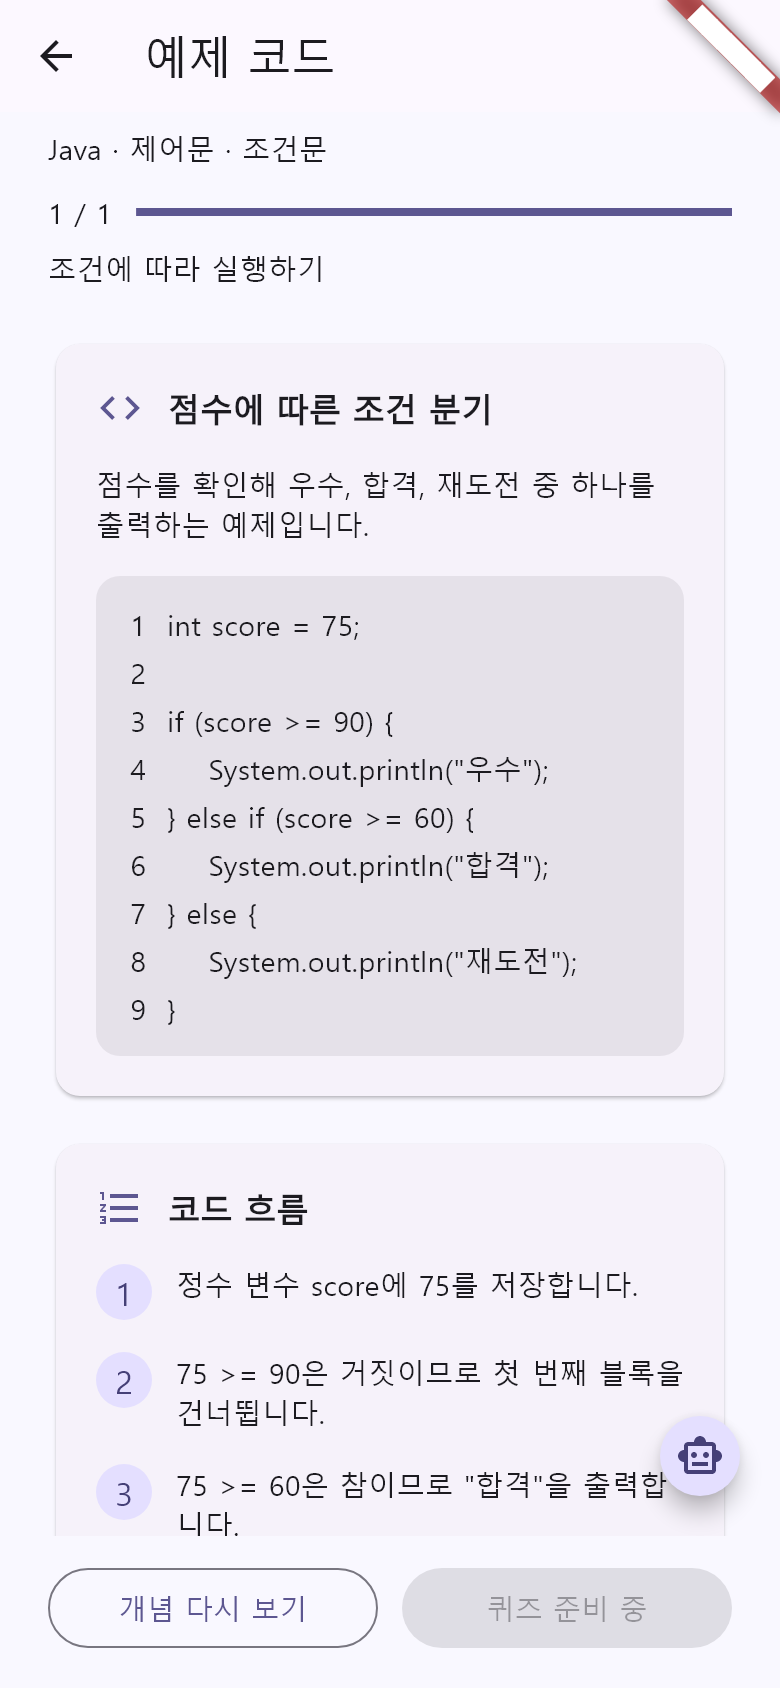
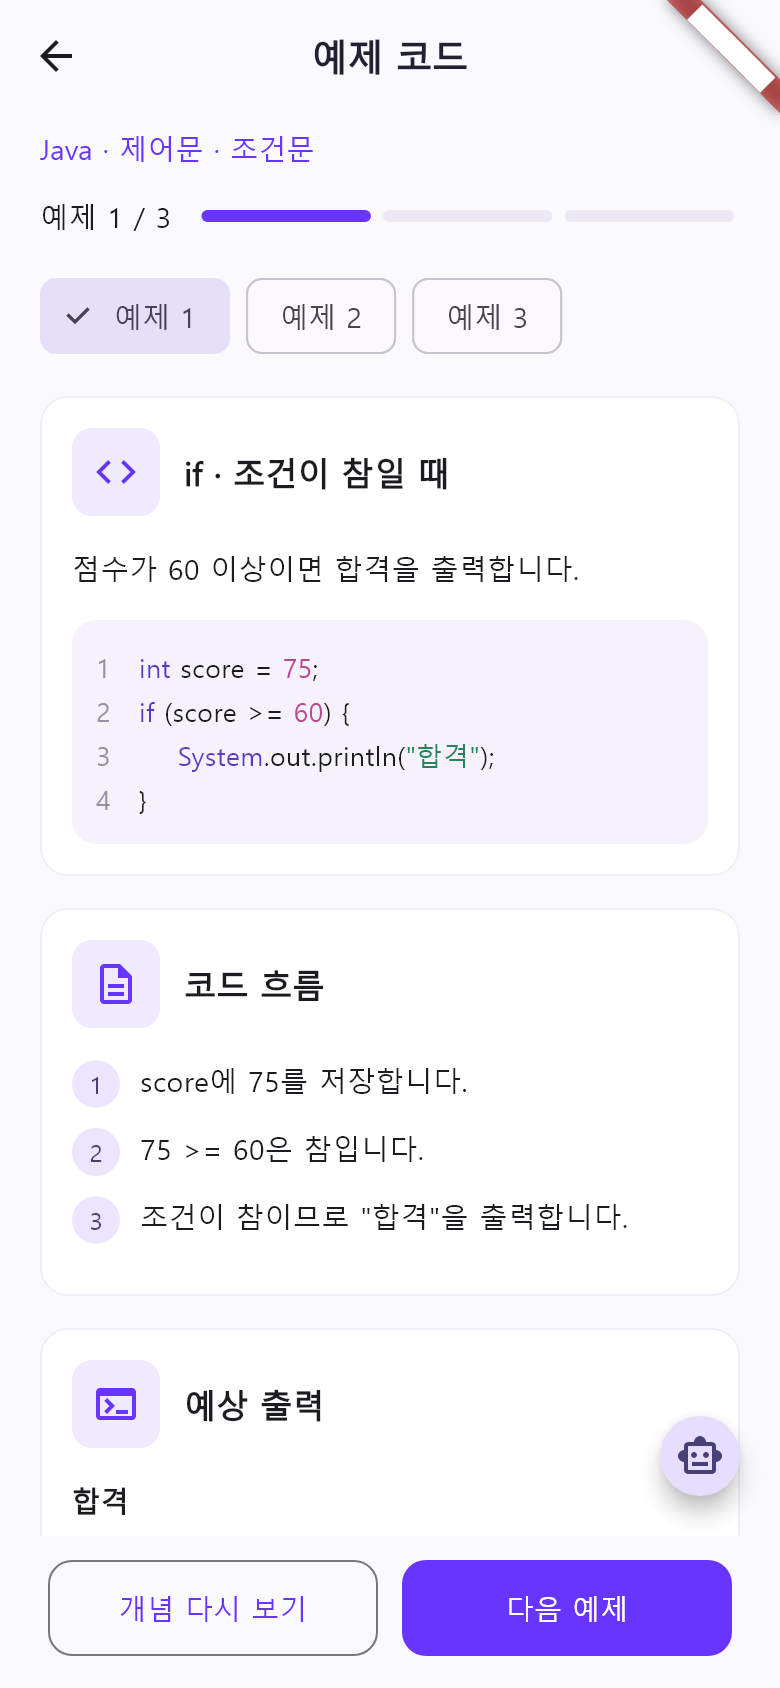
feat: 조건문 예제 3개 탐색 및 퀴즈 이동 연결

diff --git a/lib/features/grammar/presentation/grammar_example_screen.dart b/lib/features/grammar/presentation/grammar_example_screen.dart
@@ -1,67 +1,125 @@
 import 'package:flutter/material.dart';
 import 'package:go_router/go_router.dart';
 
+import '../../../app/router/app_router.dart';
 import '../data/condition_lesson_data.dart';
 import '../data/grammar_sample_data.dart';
 import 'grammar_scaffold.dart';
 import 'lesson_widgets.dart';
 
-class GrammarExampleScreen extends StatelessWidget {
+class GrammarExampleScreen extends StatefulWidget {
   const GrammarExampleScreen({super.key, required this.language});
   final GrammarLanguage language;
 
   @override
+  State<GrammarExampleScreen> createState() => _GrammarExampleScreenState();
+}
+
+class _GrammarExampleScreenState extends State<GrammarExampleScreen> {
+  int _index = 0;
+  final _scrollController = ScrollController();
+
+  @override
+  void dispose() {
+    _scrollController.dispose();
+    super.dispose();
+  }
+
+  void _select(int index) {
+    setState(() => _index = index);
+    if (_scrollController.hasClients) _scrollController.jumpTo(0);
+  }
+
+  @override
   Widget build(BuildContext context) {
-    final lesson = conditionLessons[language]!;
+    final examples = conditionExamples(widget.language);
+    final example = examples[_index];
     return GrammarScaffold(
       title: '예제 코드',
       footer: Row(
         children: [
           Expanded(
             child: OutlinedButton(
-              onPressed: () => context.pop(),
-              child: const Text('개념 다시 보기'),
+              onPressed: () =>
+                  _index == 0 ? context.pop() : _select(_index - 1),
+              child: Text(_index == 0 ? '개념 다시 보기' : '이전 예제'),
             ),
           ),
           const SizedBox(width: 12),
-          const Expanded(
-            child: FilledButton(onPressed: null, child: Text('퀴즈 준비 중')),
+          Expanded(
+            child: FilledButton(
+              onPressed: () {
+                if (_index < examples.length - 1) {
+                  _select(_index + 1);
+                } else {
+                  context.pushNamed(
+                    AppRouteNames.grammarQuiz,
+                    pathParameters: {'language': widget.language.id},
+                  );
+                }
+              },
+              child: Text(_index < examples.length - 1 ? '다음 예제' : '퀴즈 풀기'),
+            ),
           ),
         ],
       ),
       body: ListView(
-        padding: const EdgeInsets.fromLTRB(24, 8, 24, 88),
+        controller: _scrollController,
+        padding: const EdgeInsets.fromLTRB(20, 8, 20, 88),
         children: [
-          LessonPosition(language: language.label),
-          const SizedBox(height: 24),
+          LessonPosition(
+            language: widget.language.label,
+            current: _index + 1,
+            total: examples.length,
+            label: '예제',
+          ),
+          const SizedBox(height: 16),
+          Wrap(
+            spacing: 8,
+            children: [
+              for (var i = 0; i < examples.length; i++)
+                ChoiceChip(
+                  label: Text('예제 ${i + 1}'),
+                  selected: _index == i,
+                  onSelected: (_) => _select(i),
+                ),
+            ],
+          ),
+          const SizedBox(height: 16),
           LessonCard(
-            title: '점수에 따른 조건 분기',
+            title: example.title,
             icon: Icons.code,
             child: Column(
               crossAxisAlignment: CrossAxisAlignment.stretch,
               children: [
-                const Text('점수를 확인해 우수, 합격, 재도전 중 하나를 출력하는 예제입니다.'),
+                Text(example.description),
                 const SizedBox(height: 16),
-                LessonCode(code: lesson.code),
+                LessonCode(code: example.code),
               ],
             ),
           ),
           const SizedBox(height: 16),
           LessonCard(
             title: '코드 흐름',
-            icon: Icons.format_list_numbered,
+            icon: Icons.description_outlined,
             child: Column(
-              crossAxisAlignment: CrossAxisAlignment.stretch,
               children: [
-                for (var i = 0; i < lesson.flow.length; i++)
+                for (var i = 0; i < example.flow.length; i++)
                   Padding(
-                    padding: const EdgeInsets.only(bottom: 16),
+                    padding: const EdgeInsets.only(bottom: 10),
                     child: Row(
                       crossAxisAlignment: CrossAxisAlignment.start,
                       children: [
-                        CircleAvatar(radius: 14, child: Text('${i + 1}')),
-                        const SizedBox(width: 12),
-                        Expanded(child: Text(lesson.flow[i])),
+                        CircleAvatar(
+                          radius: 12,
+                          backgroundColor: const Color(0xFFECE5FF),
+                          child: Text(
+                            '${i + 1}',
+                            style: const TextStyle(fontSize: 12),
+                          ),
+                        ),
+                        const SizedBox(width: 10),
+                        Expanded(child: Text(example.flow[i])),
                       ],
                     ),
                   ),
@@ -69,21 +127,21 @@ class GrammarExampleScreen extends StatelessWidget {
             ),
           ),
           const SizedBox(height: 16),
-          const LessonCard(
+          LessonCard(
             title: '예상 출력',
             icon: Icons.terminal,
             child: Column(
               crossAxisAlignment: CrossAxisAlignment.start,
               children: [
                 SelectableText(
-                  '합격',
-                  style: TextStyle(
+                  example.output,
+                  style: const TextStyle(
                     fontFamily: 'monospace',
                     fontWeight: FontWeight.bold,
                   ),
                 ),
-                SizedBox(height: 8),
-                Text('예제의 예상 결과입니다. 코드를 실제로 실행하지는 않습니다.'),
+                const SizedBox(height: 8),
+                const Text('코드 실행 없이 예상 결과를 보여주는 예제입니다.'),
               ],
             ),
           ),

diff --git a/test/grammar_quiz_test.dart b/test/grammar_quiz_test.dart
@@ -1,0 +1,91 @@
+import 'package:cobip_app_fe/app/cobip_app.dart';
+import 'package:cobip_app_fe/app/router/app_router.dart';
+import 'package:flutter/material.dart';
+import 'package:flutter_test/flutter_test.dart';
+
+void main() {
+  testWidgets('답 선택과 해설, 오답 채점, 결과 및 재시도가 동작한다', (tester) async {
+    tester.view.physicalSize = const Size(390, 844);
+    tester.view.devicePixelRatio = 1;
+    addTearDown(tester.view.resetPhysicalSize);
+    addTearDown(tester.view.resetDevicePixelRatio);
+    appRouter.go('/grammar/java/chapters/conditions/example');
+    await tester.pumpWidget(const CobipApp());
+    await tester.pumpAndSettle();
+    await tester.tap(find.text('다음 예제'));
+    await tester.pumpAndSettle();
+    await tester.tap(find.text('다음 예제'));
+    await tester.pumpAndSettle();
+    await tester.tap(find.text('퀴즈 풀기'));
+    await tester.pumpAndSettle();
+    expect(
+      tester
+          .widget<FilledButton>(find.widgetWithText(FilledButton, '정답 제출'))
+          .onPressed,
+      isNull,
+    );
+    const answers = [1, 0, 0];
+    for (var i = 0; i < answers.length; i++) {
+      final answer = find.byKey(ValueKey('answer-${answers[i]}'));
+      await tester.ensureVisible(answer);
+      await tester.tap(answer);
+      await tester.pumpAndSettle();
+      if (i == 0) {
+        await tester.tap(find.text('개념 다시 보기'));
+        await tester.pumpAndSettle();
+        await tester.tap(find.text('이전'));
+        await tester.pumpAndSettle();
+        expect(
+          tester
+              .widget<FilledButton>(find.widgetWithText(FilledButton, '정답 제출'))
+              .onPressed,
+          isNotNull,
+        );
+      }
+      await tester.tap(find.text('정답 제출'));
+      await tester.pumpAndSettle();
+      expect(find.text(i == 1 ? '다시 확인해 보세요' : '정답이에요!'), findsOneWidget);
+      // 제출 후 다른 보기를 눌러도 답과 점수는 바뀌지 않습니다.
+      await tester.ensureVisible(find.byKey(const ValueKey('answer-3')));
+      await tester.tap(find.byKey(const ValueKey('answer-3')));
+      await tester.pumpAndSettle();
+      await tester.tap(find.text(i == 2 ? '결과 보기' : '다음 문제'));
+      await tester.pumpAndSettle();
+    }
+    expect(find.text('67점'), findsOneWidget);
+    expect(find.text('맞힌 문제 2'), findsOneWidget);
+    expect(find.text('틀린 문제 1'), findsOneWidget);
+    await tester.tap(find.text('다시 풀기'));
+    await tester.pumpAndSettle();
+    expect(find.text('문제 1 / 3'), findsOneWidget);
+    expect(
+      tester
+          .widget<FilledButton>(find.widgetWithText(FilledButton, '정답 제출'))
+          .onPressed,
+      isNull,
+    );
+    await tester.tap(find.byTooltip('뒤로가기'));
+    await tester.pumpAndSettle();
+    expect(find.text('예제 3 / 3'), findsOneWidget);
+    expect(tester.takeException(), isNull);
+  });
+
+  testWidgets('좁은 화면과 큰 글자에서도 퀴즈 버튼과 선택지가 넘치지 않는다', (tester) async {
+    tester.view.physicalSize = const Size(320, 740);
+    tester.view.devicePixelRatio = 1;
+    tester.platformDispatcher.textScaleFactorTestValue = 1.5;
+    addTearDown(tester.view.resetPhysicalSize);
+    addTearDown(tester.view.resetDevicePixelRatio);
+    addTearDown(tester.platformDispatcher.clearTextScaleFactorTestValue);
+    appRouter.go('/grammar/python/chapters/conditions/example/quiz');
+    await tester.pumpWidget(const CobipApp());
+    await tester.pumpAndSettle();
+    await tester.ensureVisible(find.byKey(const ValueKey('answer-1')));
+    await tester.tap(find.byKey(const ValueKey('answer-1')));
+    await tester.pumpAndSettle();
+    await tester.tap(find.text('정답 제출'));
+    await tester.pumpAndSettle();
+    expect(find.text('정답이에요!'), findsOneWidget);
+    expect(tester.takeException(), isNull);
+  });
+}

diff --git a/test/grammar_lesson_test.dart b/test/grammar_lesson_test.dart
@@ -29,21 +29,24 @@ void main() {
         code,
         contains(switch (language) {
           GrammarLanguage.java => 'System.out.println',
-          GrammarLanguage.python => 'elif score',
+          GrammarLanguage.python => 'if score',
           GrammarLanguage.javascript => 'console.log',
         }),
       );
-      expect(
-        tester
-            .widget<FilledButton>(find.widgetWithText(FilledButton, '퀴즈 준비 중'))
-            .onPressed,
-        isNull,
-      );
+      await tester.tap(find.text('다음 예제'));
+      await tester.pumpAndSettle();
+      expect(find.text('예제 2 / 3'), findsOneWidget);
+      await tester.tap(find.text('다음 예제'));
+      await tester.pumpAndSettle();
+      expect(find.text('예제 3 / 3'), findsOneWidget);
+      expect(find.text('퀴즈 풀기'), findsOneWidget);
       await tester.tap(find.byTooltip('COBIP 챗봇'));
       await tester.pumpAndSettle();
       await tester.tap(find.text('학습 계속하기'));
       await tester.pumpAndSettle();
       expect(find.text('예제 코드'), findsOneWidget);
+      await tester.tap(find.text('예제 1'));
+      await tester.pumpAndSettle();
       await tester.tap(find.text('개념 다시 보기'));
       await tester.pumpAndSettle();
       expect(find.text('핵심 개념'), findsOneWidget);

diff --git a/docs/grammar-screens.md b/docs/grammar-screens.md
@@ -32,12 +32,12 @@
 
 ## 다음 작업
 
-조건문 외 문법 개념·예제, 퀴즈·결과와 실제 챗봇 대화는 후속 작업 범위입니다.
+조건문 외 문법 개념·예제, 실제 챗봇 대화는 후속 작업 범위입니다.
 실무·문제·마이페이지 등 다른 담당 영역은 이번 변경에 포함하지 않습니다.
 
 ## 확인 결과
 
-- Flutter 3.47.5 / Dart 3.13.4에서 정적 분석과 테스트 11개를 통과했습니다.
+- Flutter 3.47.5 / Dart 3.13.4에서 정적 분석과 테스트 13개를 통과했습니다.
 - 홈 진입, 언어별 검색, 검색 결과 없음, 챕터 카테고리 필터, 뒤로가기 상태 유지,
   잘못된 경로 복귀와 챗봇 안내 패널의 닫기를 확인했습니다.
 - `screenshots/grammar-home.png`, `screenshots/grammar-chapters.png`는
@@ -50,14 +50,30 @@
 - 제어문 카테고리의 조건문 카드에서 진입합니다.
 - 핵심 개념, 조건별 분기 설명, 간단한 코드 예시를 표시합니다.
 - `이전`은 목록으로, `예제 보기`는 예제 코드 페이지로 이동합니다.
-- 상단의 `1 / 1`은 이번 임시 데이터에 포함된 개념 하나의 위치이며 학습 완료율이 아닙니다.
+- 개념에는 언어·제어문·조건문 경로를 표시하고, 예제·퀴즈에는 실제 항목 번호와 분할 진행 막대를 표시합니다.
 
 ## 4. 조건문 예제 (`/grammar/:language/chapters/conditions/example`)
 
 - 줄 번호가 있는 코드, 단계별 실행 흐름, 예상 출력 `합격`을 표시합니다.
 - 코드 영역은 가로 스크롤·텍스트 선택이 가능하며 실제 실행 기능은 없습니다.
-- `개념 다시 보기`는 개념 페이지로 복귀합니다. 퀴즈는 아직 구현하지 않아 비활성 상태입니다.
+- 예제는 if, if/else, 여러 조건 분기 3개입니다. 번호 탭이나 이전/다음 버튼으로 전부 확인할 수 있습니다.
+- 첫 예제의 `개념 다시 보기`는 개념으로 복귀하고, 마지막 예제의 `퀴즈 풀기`는 복습 퀴즈로 이동합니다.
 - 두 상세 페이지는 하단 메뉴 없이 고정 이동 버튼과 원형 챗봇 안내 버튼을 제공합니다.
 - Java / Python / JavaScript별 예제는 `data/condition_lesson_data.dart`에서 관리합니다.
 
 - 상세 화면 검토 이미지는 `screenshots/grammar-concept.png`, `screenshots/grammar-example.png`에 기록합니다.
+
+## 5. 복습 퀴즈 (`/grammar/:language/chapters/conditions/example/quiz`)
+
+- 선택한 언어의 예제 코드와 연결된 객관식 3문항입니다.
+- 답을 고르기 전에는 제출할 수 없습니다. 제출 후 선택을 잠그고 정답·오답과 해설을 표시합니다.
+- 다음 문제 / 결과 보기로 진행합니다. 개념을 보고 돌아와도 현재 선택은 유지합니다.
+- 정답 데이터는 `data/condition_quiz_data.dart`에 두며 서버 없이 로컬에서 비교합니다.
+
+## 6. 퀴즈 결과
+
+- 3문항 제출 완료 후 현재 퀴즈 화면에서 점수, 정답·오답 수와 각 문항의 내 답·정답·해설을 표시합니다.
+- 점수는 맞힌 수 / 전체 문항 수 × 100을 반올림합니다.
+- `다시 풀기`는 답안을 초기화하며 `예제 다시 보기`는 진입했던 예제로 복귀합니다.
+- 결과와 답안은 현재 화면에서만 유지됩니다. 서버 저장·오답노트·웹 연계는 구현하지 않습니다.
+- `grammar-quiz.png`, `grammar-quiz-result.png`는 검토용 렌더링 이미지입니다.
